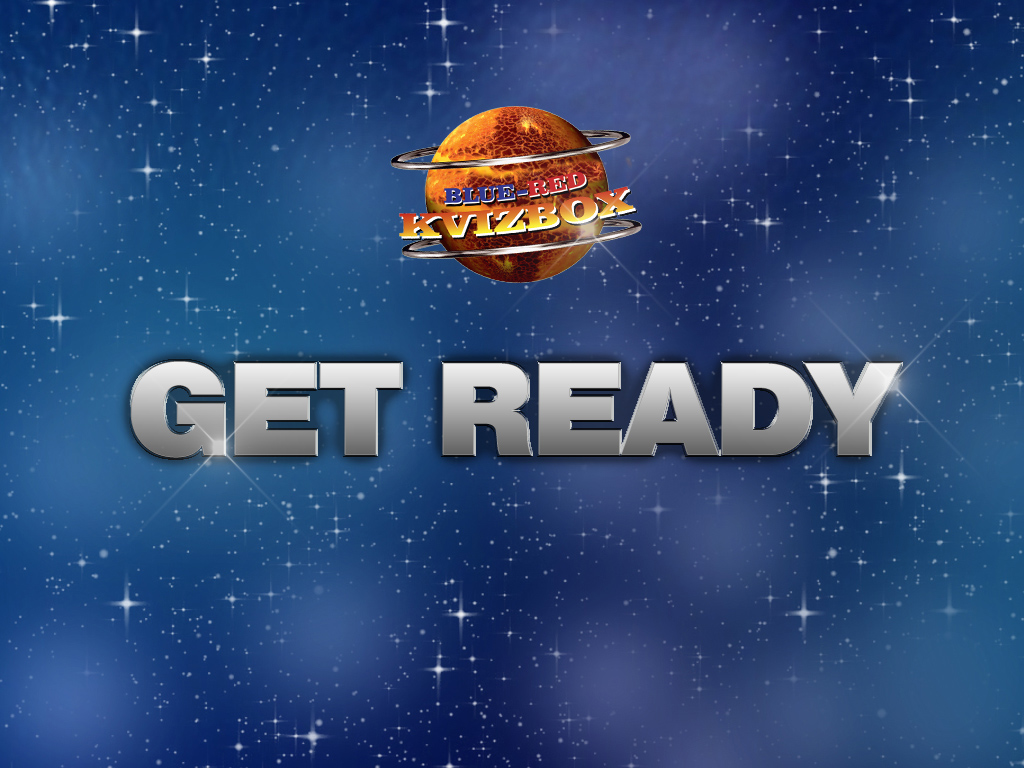
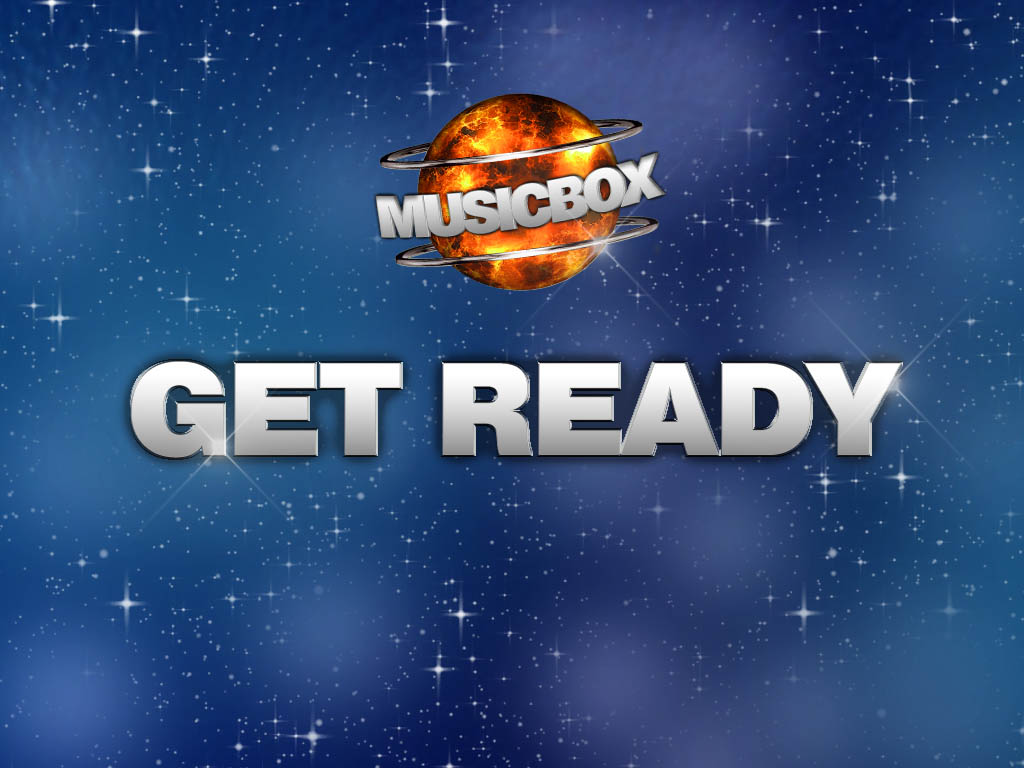
add images for EN language

Changed region(s): [[0.3438, 0.125, 0.6562, 0.375], [0.4062, 0.4688, 0.875, 0.5938], [0.125, 0.4688, 0.4062, 0.5938]]

diff --git a/blue-app/services/LangBasedSettings.py b/blue-app/services/LangBasedSettings.py
@@ -15,6 +15,8 @@ class LangBasedSettings:
         self.reloadLanguage()
         if (self.lang) == AppSettings.LanguageList[1]:
             return QtCore.QFile(":/dynamic-images/HU/fortune-style.qss")
+        if (self.lang) == AppSettings.LanguageList[0]:
+            return QtCore.QFile(":/dynamic-images/EN/fortune-style.qss")
 
         return QtCore.QFile(":/dynamic-images/SK/fortune-style.qss")
 
